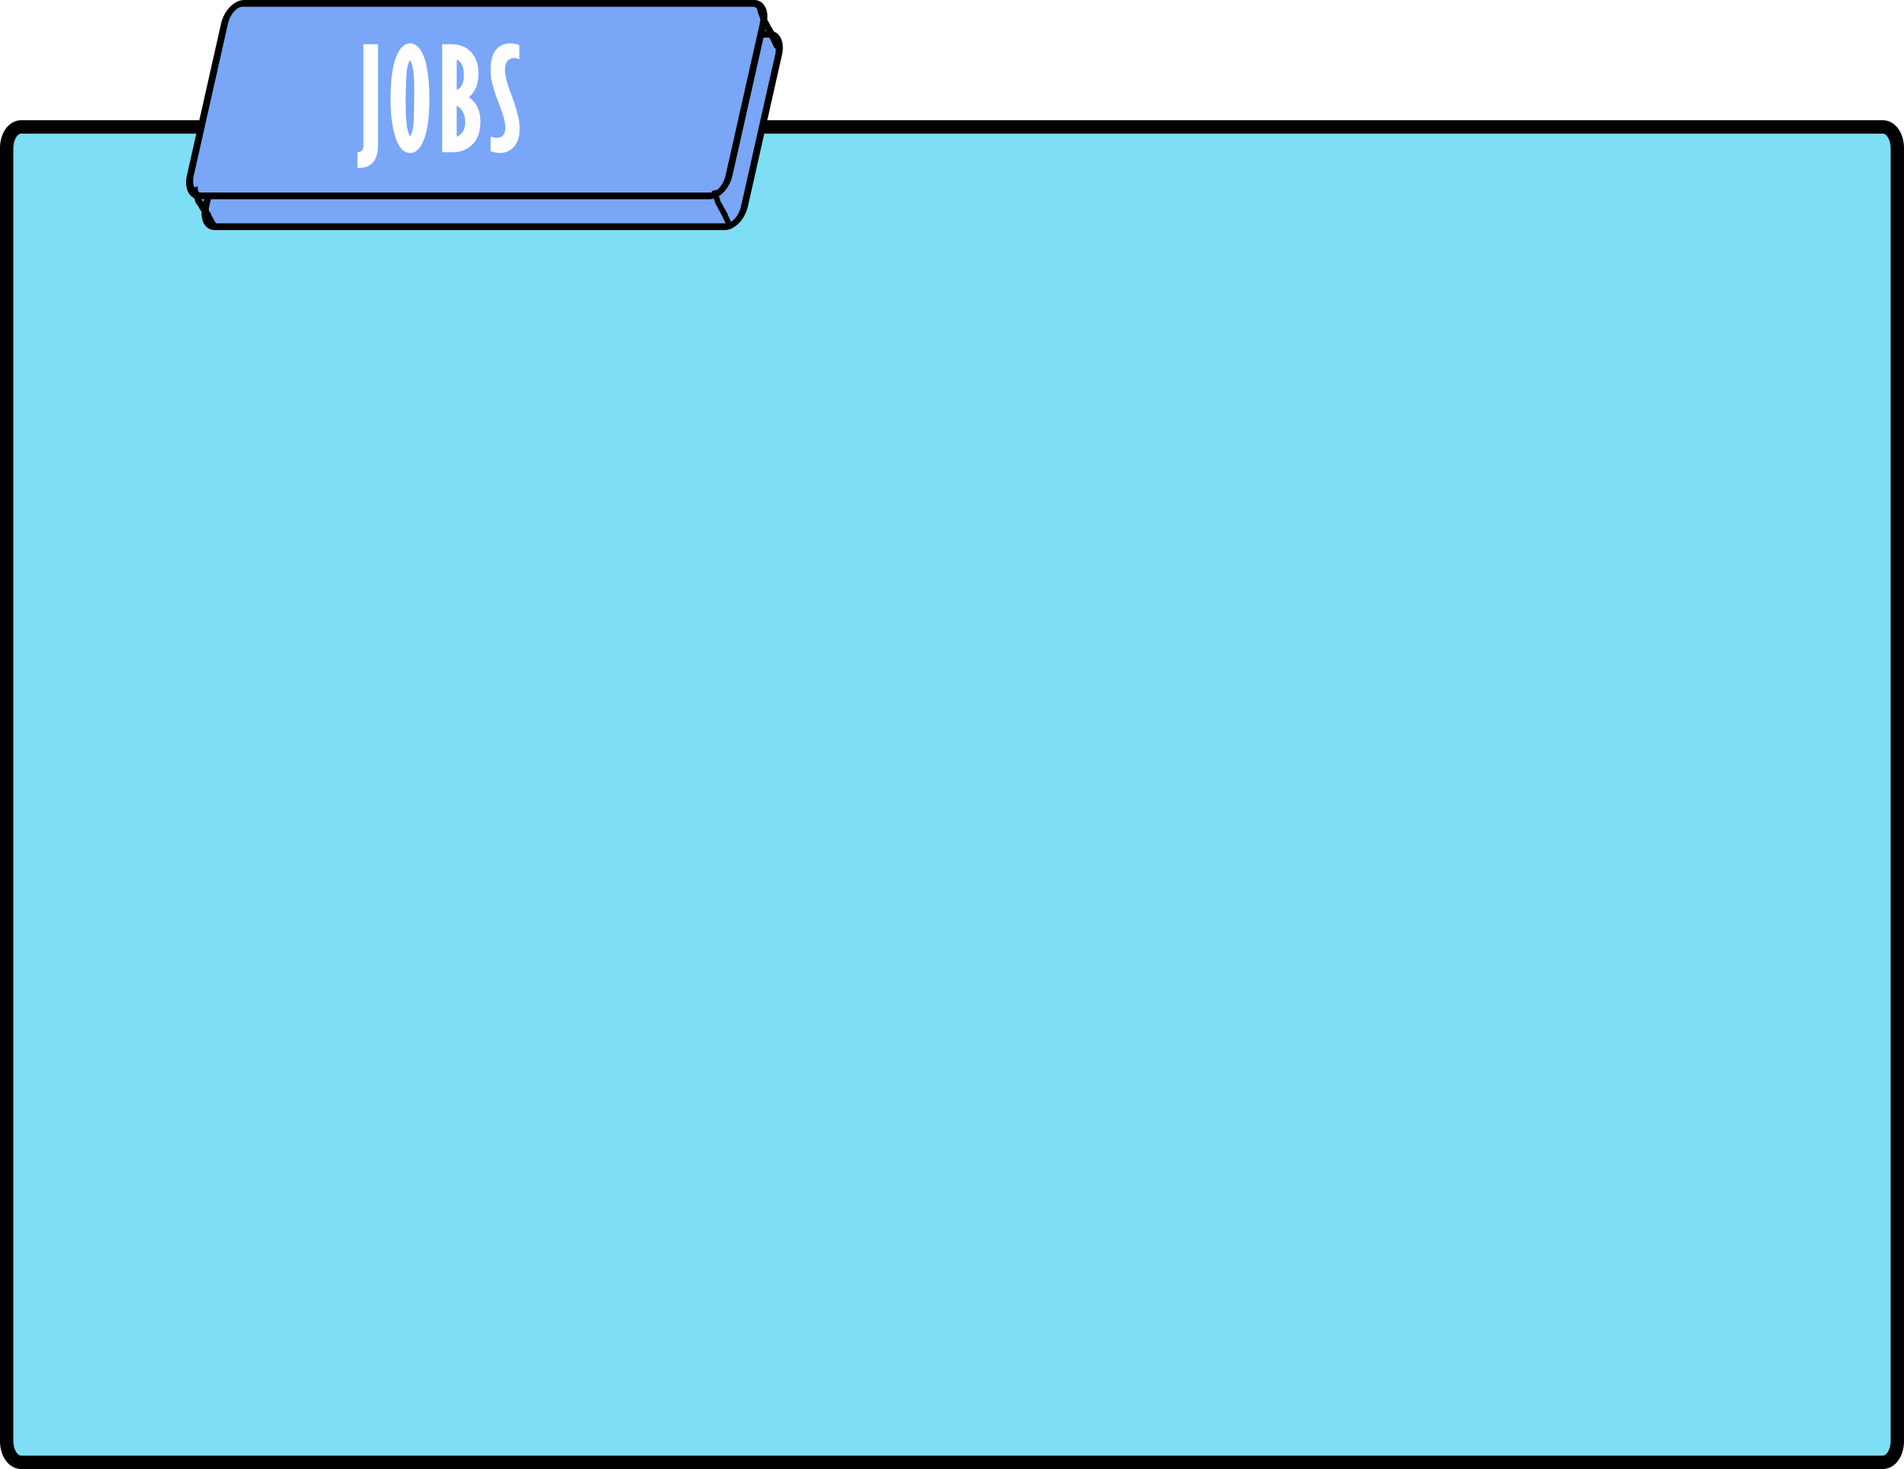
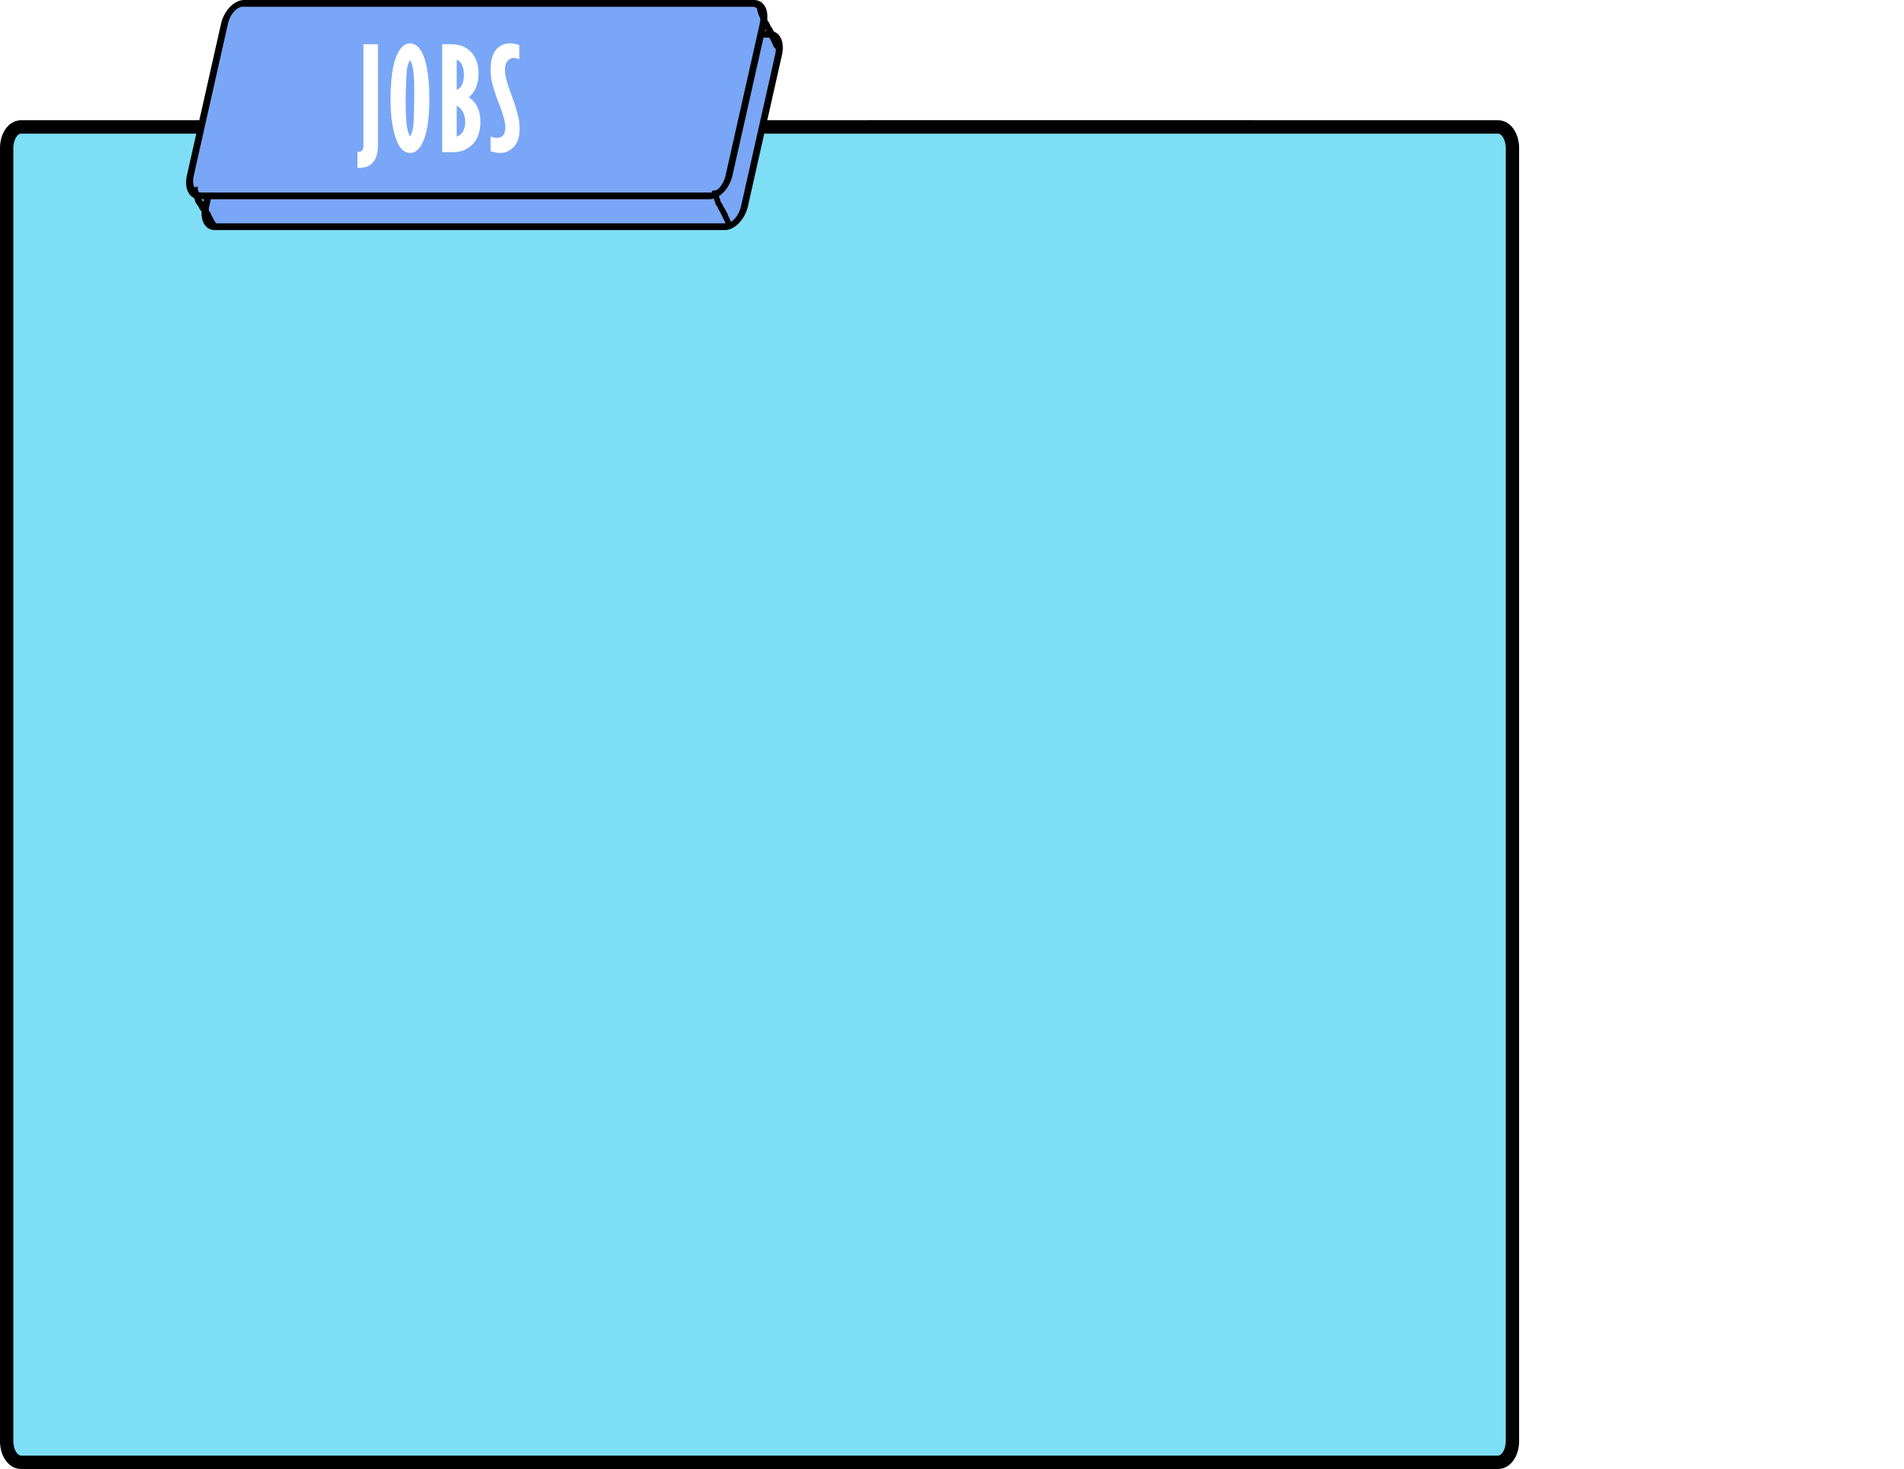
final resizing

Changed region(s): [[0.7735, 0.062, 1.0, 1.0]]

diff --git a/index.html b/index.html
@@ -15,15 +15,15 @@
     <div class="flex-container">
         <div id="states">
           <img src="imgs/states.png" alt="dropdown" width="700" length="500">
-          <h2 style="padding-left: 50px;" class="choose">CHOOSE YOUR STATES</h2>
+          <!--<h2 style="padding-left: 50px;" class="choose">CHOOSE YOUR STATES</h2>-->
         </div>
         <div id="jobs">
-          <img src="imgs/jobs3.png" alt="dropdown" width= "700" length="200">
-          <h2 style="padding-left: 30%;" class="choose">CHOOSE YOUR JOBS</h2>
+          <img src="imgs/jobs3.png" alt="dropdown" width= "660" length="200">
+          <!--<h2 style="padding-left: 30%;" class="choose">CHOOSE YOUR JOBS</h2>-->
         </div>
-        <div style="padding-left: 13%;">
-          <img src="imgs/skills3.png" alt="dropdown" width="400" length="200">
-          <h2 style="padding-left: 70%;" class="choose">CHOOSE YOUR SKILLS</h2>
+        <div style="padding-left: 3%;">
+          <img src="imgs/skills3.png" alt="dropdown" width="700" length="200">
+          <!--<h2 style="padding-left: 70%;" class="choose">CHOOSE YOUR SKILLS</h2>-->
         </div>
         <form id="filterForm" action="/filter" method="post">
           <select class="states" name="states" id="states" multiple>
@@ -82,32 +82,33 @@
               <th>Job Title</th>
             </tr> -->
             <tr>
-              <td><input type="checkbox"  name="jobs" value="Goon">
+              <td><input type="checkbox" class="largerCheckbox" name="jobs" value="Goon">
                 <label for="job1">Goon</label><br></td>
-            <td><input type="checkbox"  name="jobs" value="Financial Analyst">
-                <label for="job1">Financial Analyst</label><br></td>
-              <td><input type="checkbox"  name="jobs" value="Heavy Weapons Specialist">
-                <label for="job1">Heavy Weapons Specialist</label><br></td>
-              <td><input type="checkbox"  name="jobs" value="Engineer">
+            <td><input type="checkbox" class="largerCheckbox" name="jobs" value="Financial Analyst"><br>
+                <label for="job1">Financial Analyst</label></td>
+              <td><input type="checkbox" class="largerCheckbox" name="jobs" value="Heavy Weapons Specialist"><br>
+                <label for="job1">Heavy Weapons Specialist</label></td>
+              <td><input type="checkbox" class="largerCheckbox" name="jobs" value="Engineer">
                 <label for="job1">Engineer</label><br></td>
-              <td><input type="checkbox"  name="jobs" value="Wizard">
+              <td><input type="checkbox" class="largerCheckbox" name="jobs" value="Wizard">
                   <label for="job1">Wizard</label><br></td>
               </tr>
               <tr>
-              <td><input type="checkbox"  name="jobs" value="Right Hand Woman">
+              <td><input type="checkbox" class="largerCheckbox" name="jobs" value="Right Hand Woman">
                   <label for="job1">Right Hand Woman</label><br></td>
-              <td><input type="checkbox"  name="jobs" value="Executioner">
+              <td><input type="checkbox" class="largerCheckbox" name="jobs" value="Executioner">
                   <label for="job1">Executioner</label><br></td> 
-              <td><input type="checkbox"  name="jobs" value="Hacker">
+              <td><input type="checkbox" class="largerCheckbox" name="jobs" value="Hacker">
                   <label for="job1">Hacker</label><br></td>
-              <td><input type="checkbox"  name="jobs" value="Manager">
+              <td><input type="checkbox" class="largerCheckbox" name="jobs" value="Manager">
                   <label for="job1">Manager</label><br></td>
-              <td><input type="checkbox"  name="jobs" value="Cook">
+              <td><input type="checkbox" class="largerCheckbox" name="jobs" value="Cook">
                   <label for="job1">Cook</label><br></td>
             </tr>            
           </table>
 
           <table class="skills">
+          
             <tr>
               <th>Skill Type</th>
               <th>Beginner</th>
@@ -115,103 +116,103 @@
               <th>Advanced</th>
             </tr>
             <tr>
-          <td><input type="checkbox" id="skill1" name="Enthusiasm" onclick="handler('1')">
+          <td><input type="checkbox" class="largerCheckbox" id="skill1" name="Enthusiasm" onclick="handler('1')">
             <label for="skill1">Enthusiasm</label><br></td>
-          <td><input type="checkbox" id="beg1" name="Enthusiasm" value="beg" onclick="handler1('1')">
+          <td><input type="checkbox" class="largerCheckbox" id="beg1" name="Enthusiasm" value="beg" onclick="handler1('1')">
             <label for="beg"></label><br></td>
-          <td><input type="checkbox" id="med1" name="Enthusiasm" value="med"  onclick="handler1('1')">
+          <td><input type="checkbox" class="largerCheckbox" id="med1" name="Enthusiasm" value="med"  onclick="handler1('1')">
             <label for="med"></label><br></td>
-          <td><input type="checkbox" id="adv1" name="Enthusiasm" value="adv"  onclick="handler1('1')">
+          <td><input type="checkbox" class="largerCheckbox" id="adv1" name="Enthusiasm" value="adv"  onclick="handler1('1')">
             <label for="adv"></label><br></td>                    
         </tr>
         <tr>
-          <td><input type="checkbox" id="skill2" name="Programming" onclick="handler('2')">
+          <td><input type="checkbox" class="largerCheckbox" id="skill2" name="Programming" onclick="handler('2')">
             <label for="skill2">Programming</label><br></td>
-          <td><input type="checkbox" id="beg2" name="Programming" value="beg" onclick="handler1('2')">
+          <td><input type="checkbox" class="largerCheckbox" id="beg2" name="Programming" value="beg" onclick="handler1('2')">
             <label for="beg"></label><br></td>
-          <td><input type="checkbox" id="med2" name="Programming" value="med" onclick="handler1('2')">
+          <td><input type="checkbox" class="largerCheckbox" id="med2" name="Programming" value="med" onclick="handler1('2')">
             <label for="med"></label><br></td>
-          <td><input type="checkbox" id="adv2" name="Programming" value="adv"  onclick="handler1('2')">
+          <td><input type="checkbox" class="largerCheckbox" id="adv2" name="Programming" value="adv"  onclick="handler1('2')">
             <label for="adv"></label><br></td>  
         </tr>
         <tr>
-          <td><input type="checkbox" id="skill3" name="Alchemy" onclick="handler('3')">
-            <label for="skill3">Alchemy</label><br></td>
-          <td><input type="checkbox" id="beg3" name="Alchemy" value="beg" onclick="handler1('3')">
+          <td><input type="checkbox" class="largerCheckbox" id="skill3" name="Alchemy" onclick="handler('3')">
+            <br><label for="skill3">Alchemy</label><br></td>
+          <td><input type="checkbox" class="largerCheckbox" id="beg3" name="Alchemy" value="beg" onclick="handler1('3')">
             <label for="beg"></label><br></td>
-          <td><input type="checkbox" id="med3" name="Alchemy" value="med" onclick="handler1('3')">
+          <td><input type="checkbox" class="largerCheckbox" id="med3" name="Alchemy" value="med" onclick="handler1('3')">
             <label for="med"></label><br></td>
-          <td><input type="checkbox" id="adv3" name="Alchemy" value="adv" onclick="handler1('3')">
+          <td><input type="checkbox" class="largerCheckbox" id="adv3" name="Alchemy" value="adv" onclick="handler1('3')">
             <label for="adv"></label><br></td>  
         </tr>
         <tr>
-          <td><input type="checkbox" id="skill4" name="Lack of Critical Thinking" onclick="handler('4')">
-            <label for="skill4">Lack of Critical Thinking</label><br></td>
-          <td><input type="checkbox" id="beg4" name="Lack of Critical Thinking" value="beg" onclick="handler1('4')">
+          <td><input type="checkbox" class="largerCheckbox" id="skill4" name="Lack of Critical Thinking" onclick="handler('4')">
+            <br><label for="skill4">Lack of Critical Thinking</label><br></td>
+          <td><input type="checkbox" class="largerCheckbox" id="beg4" name="Lack of Critical Thinking" value="beg" onclick="handler1('4')">
             <label for="beg"></label><br></td>
-          <td><input type="checkbox" id="med4" name="Lack of Critical Thinking" value="med" onclick="handler1('4')">
+          <td><input type="checkbox" class="largerCheckbox" id="med4" name="Lack of Critical Thinking" value="med" onclick="handler1('4')">
             <label for="med"></label><br></td>
-          <td><input type="checkbox" id="adv4" name="Lack of Critical Thinking" value="adv" onclick="handler1('4')">
+          <td><input type="checkbox" class="largerCheckbox" id="adv4" name="Lack of Critical Thinking" value="adv" onclick="handler1('4')">
             <label for="adv"></label><br></td>  
         </tr>
         <tr>
-          <td><input type="checkbox" id="skill5" name="Data Analysis" onclick="handler('5')">
-            <label for="skill5">Data Analysis</label><br></td>
-          <td><input type="checkbox" id="beg5" name="Data Analysis" value="beg" onclick="handler1('5')">
+          <td><input type="checkbox" class="largerCheckbox" id="skill5" name="Data Analysis" onclick="handler('5')">
+            <br><label for="skill5">Data Analysis</label><br></td>
+          <td><input type="checkbox" class="largerCheckbox" id="beg5" name="Data Analysis" value="beg" onclick="handler1('5')">
             <label for="beg"></label><br></td>
-          <td><input type="checkbox" id="med5" name="Data Analysis" value="med" onclick="handler1('5')">
+          <td><input type="checkbox" class="largerCheckbox" id="med5" name="Data Analysis" value="med" onclick="handler1('5')">
             <label for="med"></label><br></td>
-          <td><input type="checkbox" id="adv5" name="Data Analysis" value="adv" onclick="handler1('5')">
+          <td><input type="checkbox" class="largerCheckbox" id="adv5" name="Data Analysis" value="adv" onclick="handler1('5')">
             <label for="adv"></label><br></td>  
         </tr>
         <tr>
-          <td><input type="checkbox" id="skill6" name="Engineering" onclick="handler('6')">
+          <td><input type="checkbox" class="largerCheckbox" id="skill6" name="Engineering" onclick="handler('6')">
             <label for="skill6">Engineering</label><br></td>
-          <td><input type="checkbox" id="beg6" name="Engineering" value="beg" onclick="handler1('6')">
+          <td><input type="checkbox" class="largerCheckbox" id="beg6" name="Engineering" value="beg" onclick="handler1('6')">
             <label for="beg"></label><br></td>
-          <td><input type="checkbox" id="med6" name="Engineering" value="med" onclick="handler1('6')">
+          <td><input type="checkbox" class="largerCheckbox" id="med6" name="Engineering" value="med" onclick="handler1('6')">
             <label for="med"></label><br></td>
-          <td><input type="checkbox" id="adv6" name="Engineering" value="adv" onclick="handler1('6')">
+          <td><input type="checkbox" class="largerCheckbox" id="adv6" name="Engineering" value="adv" onclick="handler1('6')">
             <label for="adv"></label><br></td>  
         </tr>
         <tr>
-          <td><input type="checkbox" id="skill7" name="Muscles" onclick="handler('7')">
-            <label for="skill7">Muscles</label><br></td>
-          <td><input type="checkbox" id="beg7" name="Muscles" value="beg" onclick="handler1('7')">
+          <td><input type="checkbox" class="largerCheckbox" id="skill7" name="Muscles" onclick="handler('7')">
+            <br><label for="skill7">Muscles</label><br></td>
+          <td><input type="checkbox" class="largerCheckbox" id="beg7" name="Muscles" value="beg" onclick="handler1('7')">
             <label for="beg"></label><br></td>
-          <td><input type="checkbox" id="med7" name="Muscles" value="med" onclick="handler1('7')">
+          <td><input type="checkbox" class="largerCheckbox" id="med7" name="Muscles" value="med" onclick="handler1('7')">
             <label for="med"></label><br></td>
-          <td><input type="checkbox" id="adv7" name="Muscles" value="adv" onclick="handler1('7')">
+          <td><input type="checkbox" class="largerCheckbox" id="adv7" name="Muscles" value="adv" onclick="handler1('7')">
             <label for="adv"></label><br></td>  
         </tr>
         <tr>
-          <td><input type="checkbox" id="skill8" name="Oral Communication" onclick="handler('8')">
-            <label for="skill8">Oral Communication</label><br></td>
-          <td><input type="checkbox" id="beg8" name="Oral Communication" value="beg" onclick="handler1('8')">
+          <td><input type="checkbox" class="largerCheckbox" id="skill8" name="Oral Communication" onclick="handler('8')">
+            <br><label for="skill8">Oral Communication</label><br></td>
+          <td><input type="checkbox" class="largerCheckbox" id="beg8" name="Oral Communication" value="beg" onclick="handler1('8')">
             <label for="beg"></label><br></td>
-          <td><input type="checkbox" id="med8" name="Oral Communication" value="med" onclick="handler1('8')">
+          <td><input type="checkbox" class="largerCheckbox" id="med8" name="Oral Communication" value="med" onclick="handler1('8')">
             <label for="med"></label><br></td>
-          <td><input type="checkbox" id="adv8" name="Oral Communication" value="adv" onclick="handler1('8')">
+          <td><input type="checkbox" class="largerCheckbox" id="adv8" name="Oral Communication" value="adv" onclick="handler1('8')">
             <label for="adv"></label><br></td>  
         </tr>
         <tr>
-          <td><input type="checkbox" id="skill9" name="Problem Solving" onclick="handler('9')">
-            <label for="skill9">Problem Solving</label><br></td>
-          <td><input type="checkbox" id="beg9" name="Problem Solving" value="beg" onclick="handler1('9')">
+          <td><input type="checkbox" class="largerCheckbox" id="skill9" name="Problem Solving" onclick="handler('9')">
+            <br><label for="skill9">Problem Solving</label><br></td>
+          <td><input type="checkbox" class="largerCheckbox" id="beg9" name="Problem Solving" value="beg" onclick="handler1('9')">
             <label for="beg"></label><br></td>
-          <td><input type="checkbox" id="med9" name="Problem Solving" value="med" onclick="handler1('9')">
+          <td><input type="checkbox" class="largerCheckbox" id="med9" name="Problem Solving" value="med" onclick="handler1('9')">
             <label for="med"></label><br></td>
-          <td><input type="checkbox" id="adv9" name="Problem Solving" value="adv" onclick="handler1('9')">
+          <td><input type="checkbox" class="largerCheckbox" id="adv9" name="Problem Solving" value="adv" onclick="handler1('9')">
             <label for="adv"></label><br></td>  
         </tr>
         <tr>
-          <td><input type="checkbox" id="skill10" name="Cooking" onclick="handler('10')">
-            <label for="skill10">Cooking</label><br></td>
-          <td><input type="checkbox" id="beg10" name="Cooking" value="beg" onclick="handler1('10')">
+          <td><input type="checkbox" class="largerCheckbox" id="skill10" name="Cooking" onclick="handler('10')">
+            <br><label for="skill10">Cooking</label><br></td>
+          <td><input type="checkbox" class="largerCheckbox" id="beg10" name="Cooking" value="beg" onclick="handler1('10')">
             <label for="beg"></label><br></td>
-          <td><input type="checkbox" id="med10" name="Cooking" value="med" onclick="handler1('10')">   
+          <td><input type="checkbox" class="largerCheckbox" id="med10" name="Cooking" value="med" onclick="handler1('10')">   
             <label for="med"></label><br></td>
-          <td><input type="checkbox" id="adv10" name="Cooking" value="adv" onclick="handler1('10')">
+          <td><input type="checkbox" class="largerCheckbox" id="adv10" name="Cooking" value="adv" onclick="handler1('10')">
             <label for="adv"></label><br></td>
             </tr>
           </table>

diff --git a/css/style.css b/css/style.css
@@ -1,3 +1,9 @@
+.largerCheckbox
+{
+	width: 30px;
+	height: 30px;
+}
+
 .center {
   display: block;
   margin-left: auto;
@@ -10,8 +16,8 @@
 }
 
 .flex-container > div {
-  width: 100px;
-  margin: 200px;
+  width: 300px;
+  margin: 100px;
   text-align: center;
   line-height: 75px;
   font-size: 30px;
@@ -47,8 +53,8 @@
   position: absolute; 
   margin-top: 50pt;
   margin-left: 100pt;
-  top: 70%; 
-  left: 8%; 
+  top: 50%; 
+  left: 2%; 
   width: 20%; 
   height: 300px;
 }
@@ -58,10 +64,10 @@
   font-size: 20px;
   position: absolute; 
   padding-left: 5%;
-  margin-top: 50pt;
-  margin-left: 100pt;
-  top: 70%; 
-  left: 33%; 
+  margin-top: 30pt;
+  margin-left: 50pt;
+  top: 50%; 
+  left: 31%; 
   width: 20%; 
   height: 300px;
 }
@@ -71,9 +77,9 @@
   font-size: 20px;
   position: absolute; 
   padding-left: 5%;
-  margin-top: 50pt;
-  margin-left: 50%;
-  top: 70%; 
+  margin-top: 0pt;
+  margin-left: 40%;
+  top: 50%; 
   left: 30%; 
   width: 20%; 
   height: 30px;
@@ -91,9 +97,9 @@ table {
 }
 
 td, th {
-  border: 1px solid #dddddd;
+  border: 0px solid #dddddd;
   text-align: center;
-  padding: 0px;
+  padding: 10px;
 }
 /* 
 tr:nth-child(even) {

diff --git a/index2.html b/index2.html
@@ -19,7 +19,7 @@
         margin-right: auto;
         width: 50%;
       }
-
+ 
       .flex-container {
 
         display: flex;
